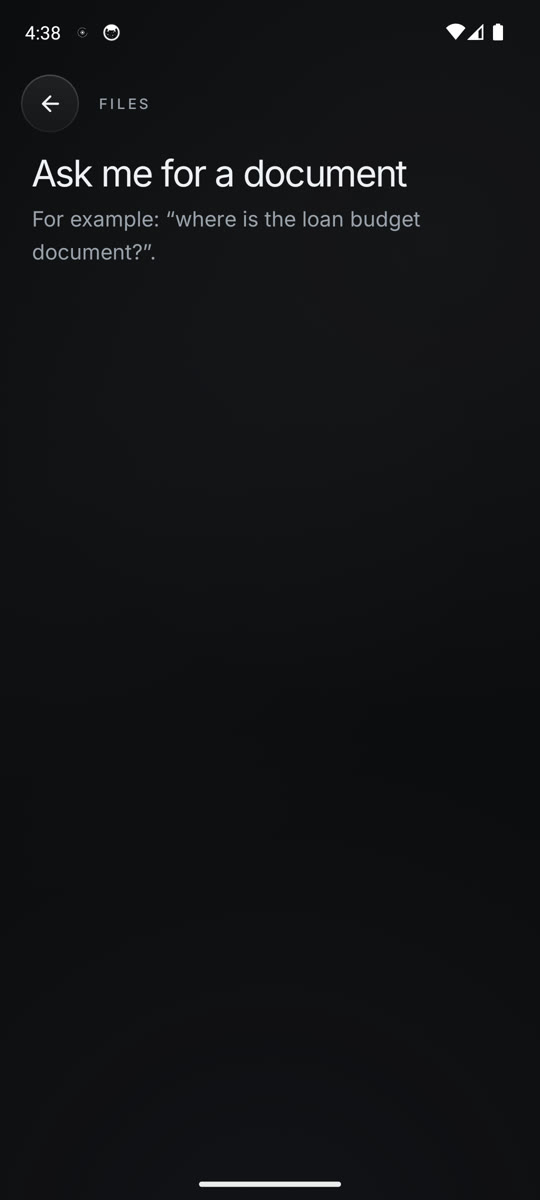
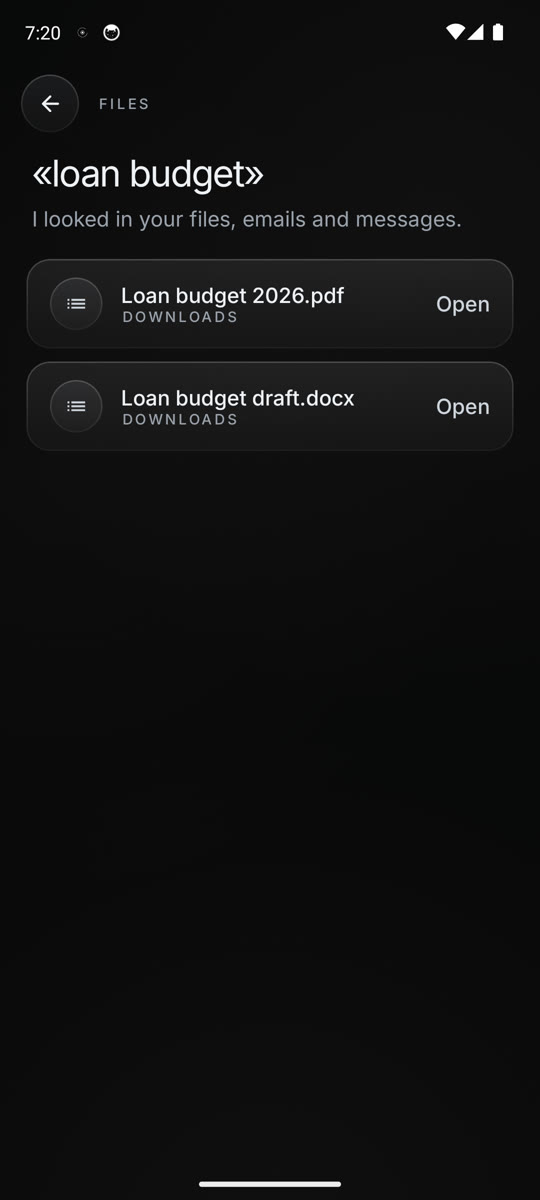
docs: photo and file search results in the README; English screen names in tool results

diff --git a/app/src/main/java/org/rustlanglatam/zeroclaw/android/PhoneMcp.kt b/app/src/main/java/org/rustlanglatam/zeroclaw/android/PhoneMcp.kt
@@ -790,7 +790,7 @@ class PhoneMcp(private val context: Context, private val port: Int) {
                             (if (people) " and someone in them (faces; it cannot tell who)" else "") +
                             "; looked at ${found.looked} of ${found.total} from that time" +
                             (if (found.looked < found.total) " (more on the next search: each photo is looked at once)" else "") +
-                            (if (Floating.appVisible) ". They are on the owner's screen now." else ". They are on the Fotos screen when the owner opens the app.")
+                            (if (Floating.appVisible) ". They are on the owner's screen now." else ". They are on the Photos screen when the owner opens the app.")
                     }
                 } }
             }

diff --git a/app/src/main/java/org/rustlanglatam/zeroclaw/android/Files.kt b/app/src/main/java/org/rustlanglatam/zeroclaw/android/Files.kt
@@ -45,7 +45,7 @@ object Files {
     fun describe(hits: List<Hit>, terms: List<String>, filesKnown: Boolean): String {
         val note = if (filesKnown) "" else "\n(Files of other apps such as WhatsApp are not searched: the owner has not allowed access to all files; Ajustes › Permisos.)"
         if (hits.isEmpty()) return "Nothing found for ${terms.joinToString(" ")}.$note"
-        return "Found, best first (shown on the Archivos screen):\n" +
+        return "Found, best first (shown on the Files screen):\n" +
             hits.take(10).joinToString("\n") { "- ${it.title} — ${it.where}" } + note
     }
 }

diff --git a/README.md b/README.md
@@ -209,16 +209,20 @@ summarize my week", run as ZeroClaw cron jobs) are also set by voice.
 ## Contacts, photos and files
 
 <p align="center">
-  <img src="docs/images/photos.jpg" width="230" alt="Photo search">
-  <img src="docs/images/files.jpg" width="230" alt="File search">
+  <img src="docs/images/photos.jpg" width="230" alt="Photos screen: results of a search for photos with a dog">
+  <img src="docs/images/files.jpg" width="230" alt="Files screen: two documents found for a loan budget request">
 </p>
+<p align="center"><sub>Left: "Find the photos of my dog" — 4 of 6 photos matched by on-device image labels. Right: "Where is the
+loan budget document?" — two files found in Downloads, each opens in its app.</sub></p>
 
 - **Contacts.** Search, add, edit, delete (delete requires approval); family and work groups set by voice with the
   credential. Contacts are matched by stable identity, never by display name.
-- **Photos.** "Photos from last December with my dog": a date range from MediaStore, then on-device labels and face
-  detection. Images do not leave the phone.
-- **Files.** "Where is the loan quote?": file names in Downloads, Documents, WhatsApp and Telegram, plus emails and
-  messages that mention it.
+- **Photos.** A request such as "photos from last December with my dog" becomes a date range over MediaStore, then
+  on-device image labels (and face detection for people) select the matching photos. Results appear as a grid on the
+  Photos screen; a tap opens the photo in the gallery. Images are analyzed on the device and never uploaded.
+- **Files.** A request such as "where is the loan budget document?" searches file names in Downloads, Documents and
+  the WhatsApp and Telegram folders (all-files access), plus emails and messages that mention it. Results are listed
+  best first with their location; a tap opens the file in its app.
 - **Apps and device.** Open apps, play a search in a media app, media keys; brightness, volume, flashlight,
   do-not-disturb, rotation, and system panels for the rest ([phone abilities](docs/specs/phone-abilities.md)).
 
